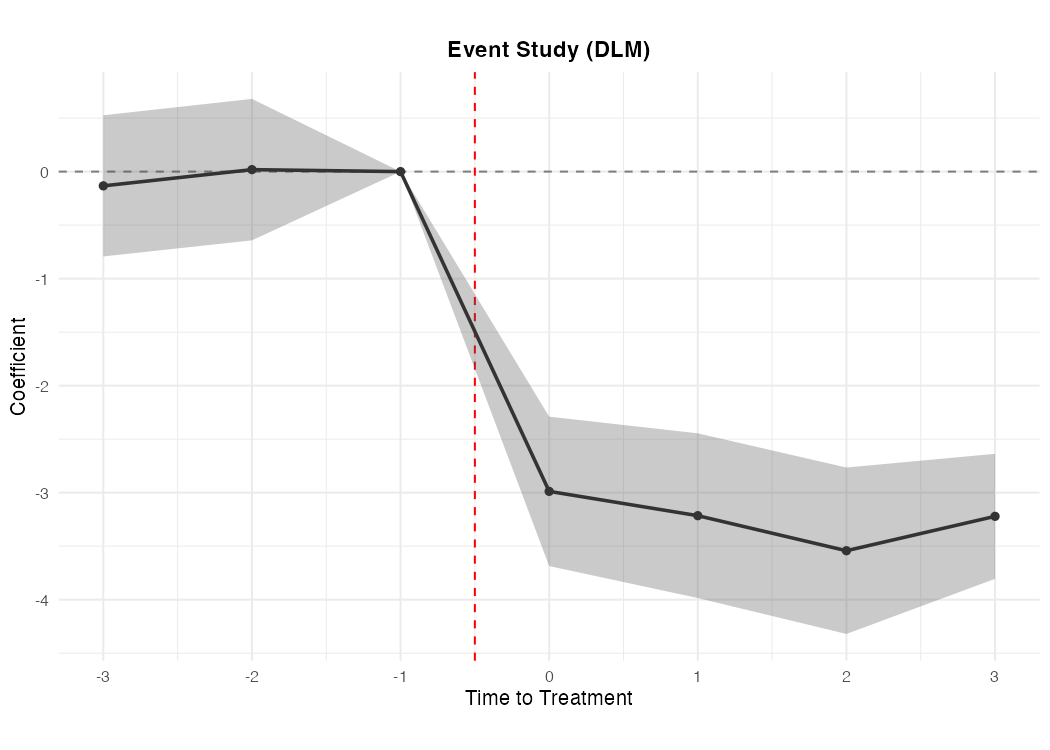
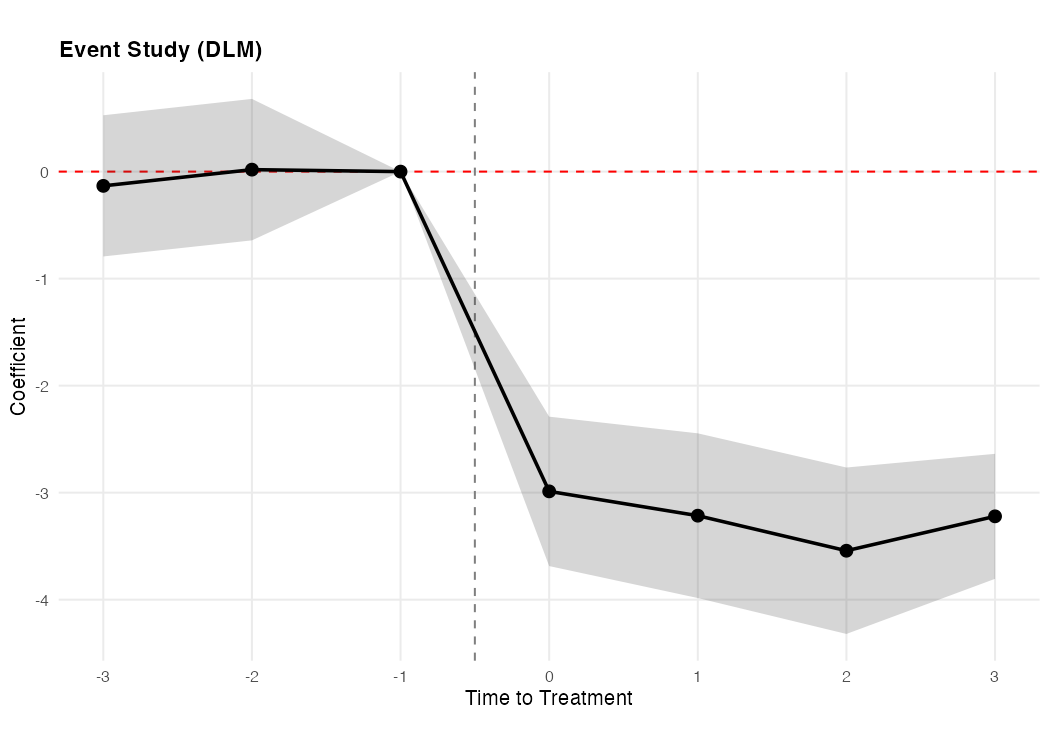
Deployed 8429fe3 with MkDocs version: 1.6.1

diff --git a/getting-started/worked-example/index.html b/getting-started/worked-example/index.html
@@ -1267,18 +1267,19 @@
 <div class="tabbed-content">
 <div class="tabbed-block">
 <div class="highlight"><pre><span></span><code><a id="__codelineno-13-1" name="__codelineno-13-1" href="#__codelineno-13-1"></a><span class="nf">ggplot</span><span class="p">(</span><span class="n">es_df</span><span class="p">,</span><span class="w"> </span><span class="nf">aes</span><span class="p">(</span><span class="n">x</span><span class="w"> </span><span class="o">=</span><span class="w"> </span><span class="n">time_to_event</span><span class="p">,</span><span class="w"> </span><span class="n">y</span><span class="w"> </span><span class="o">=</span><span class="w"> </span><span class="n">coef</span><span class="p">))</span><span class="w"> </span><span class="o">+</span>
-<a id="__codelineno-13-2" name="__codelineno-13-2" href="#__codelineno-13-2"></a><span class="w">  </span><span class="nf">geom_hline</span><span class="p">(</span><span class="n">yintercept</span><span class="w"> </span><span class="o">=</span><span class="w"> </span><span class="m">0</span><span class="p">,</span><span class="w"> </span><span class="n">lty</span><span class="w"> </span><span class="o">=</span><span class="w"> </span><span class="m">2</span><span class="p">,</span><span class="w"> </span><span class="n">color</span><span class="w"> </span><span class="o">=</span><span class="w"> </span><span class="s">&quot;gray50&quot;</span><span class="p">)</span><span class="w"> </span><span class="o">+</span>
-<a id="__codelineno-13-3" name="__codelineno-13-3" href="#__codelineno-13-3"></a><span class="w">  </span><span class="nf">geom_vline</span><span class="p">(</span><span class="n">xintercept</span><span class="w"> </span><span class="o">=</span><span class="w"> </span><span class="m">-0.5</span><span class="p">,</span><span class="w"> </span><span class="n">lty</span><span class="w"> </span><span class="o">=</span><span class="w"> </span><span class="m">2</span><span class="p">,</span><span class="w"> </span><span class="n">color</span><span class="w"> </span><span class="o">=</span><span class="w"> </span><span class="s">&quot;red&quot;</span><span class="p">)</span><span class="w"> </span><span class="o">+</span>
+<a id="__codelineno-13-2" name="__codelineno-13-2" href="#__codelineno-13-2"></a><span class="w">  </span><span class="nf">geom_hline</span><span class="p">(</span><span class="n">yintercept</span><span class="w"> </span><span class="o">=</span><span class="w"> </span><span class="m">0</span><span class="p">,</span><span class="w"> </span><span class="n">lty</span><span class="w"> </span><span class="o">=</span><span class="w"> </span><span class="m">2</span><span class="p">,</span><span class="w"> </span><span class="n">color</span><span class="w"> </span><span class="o">=</span><span class="w"> </span><span class="s">&quot;red&quot;</span><span class="p">)</span><span class="w"> </span><span class="o">+</span>
+<a id="__codelineno-13-3" name="__codelineno-13-3" href="#__codelineno-13-3"></a><span class="w">  </span><span class="nf">geom_vline</span><span class="p">(</span><span class="n">xintercept</span><span class="w"> </span><span class="o">=</span><span class="w"> </span><span class="m">-0.5</span><span class="p">,</span><span class="w"> </span><span class="n">lty</span><span class="w"> </span><span class="o">=</span><span class="w"> </span><span class="m">2</span><span class="p">,</span><span class="w"> </span><span class="n">color</span><span class="w"> </span><span class="o">=</span><span class="w"> </span><span class="s">&quot;gray50&quot;</span><span class="p">)</span><span class="w"> </span><span class="o">+</span>
 <a id="__codelineno-13-4" name="__codelineno-13-4" href="#__codelineno-13-4"></a><span class="w">  </span><span class="nf">geom_ribbon</span><span class="p">(</span><span class="nf">aes</span><span class="p">(</span><span class="n">ymin</span><span class="w"> </span><span class="o">=</span><span class="w"> </span><span class="n">coef</span><span class="w"> </span><span class="o">-</span><span class="w"> </span><span class="m">1.96</span><span class="w"> </span><span class="o">*</span><span class="w"> </span><span class="n">se</span><span class="p">,</span><span class="w"> </span><span class="n">ymax</span><span class="w"> </span><span class="o">=</span><span class="w"> </span><span class="n">coef</span><span class="w"> </span><span class="o">+</span><span class="w"> </span><span class="m">1.96</span><span class="w"> </span><span class="o">*</span><span class="w"> </span><span class="n">se</span><span class="p">),</span>
-<a id="__codelineno-13-5" name="__codelineno-13-5" href="#__codelineno-13-5"></a><span class="w">              </span><span class="n">alpha</span><span class="w"> </span><span class="o">=</span><span class="w"> </span><span class="m">0.3</span><span class="p">,</span><span class="w"> </span><span class="n">fill</span><span class="w"> </span><span class="o">=</span><span class="w"> </span><span class="s">&quot;gray30&quot;</span><span class="p">)</span><span class="w"> </span><span class="o">+</span>
-<a id="__codelineno-13-6" name="__codelineno-13-6" href="#__codelineno-13-6"></a><span class="w">  </span><span class="nf">geom_line</span><span class="p">(</span><span class="n">color</span><span class="w"> </span><span class="o">=</span><span class="w"> </span><span class="s">&quot;gray20&quot;</span><span class="p">,</span><span class="w"> </span><span class="n">linewidth</span><span class="w"> </span><span class="o">=</span><span class="w"> </span><span class="m">0.8</span><span class="p">)</span><span class="w"> </span><span class="o">+</span>
-<a id="__codelineno-13-7" name="__codelineno-13-7" href="#__codelineno-13-7"></a><span class="w">  </span><span class="nf">geom_point</span><span class="p">(</span><span class="n">color</span><span class="w"> </span><span class="o">=</span><span class="w"> </span><span class="s">&quot;gray20&quot;</span><span class="p">,</span><span class="w"> </span><span class="n">size</span><span class="w"> </span><span class="o">=</span><span class="w"> </span><span class="m">1.5</span><span class="p">)</span><span class="w"> </span><span class="o">+</span>
+<a id="__codelineno-13-5" name="__codelineno-13-5" href="#__codelineno-13-5"></a><span class="w">              </span><span class="n">alpha</span><span class="w"> </span><span class="o">=</span><span class="w"> </span><span class="m">0.2</span><span class="p">,</span><span class="w"> </span><span class="n">fill</span><span class="w"> </span><span class="o">=</span><span class="w"> </span><span class="s">&quot;grey20&quot;</span><span class="p">)</span><span class="w"> </span><span class="o">+</span>
+<a id="__codelineno-13-6" name="__codelineno-13-6" href="#__codelineno-13-6"></a><span class="w">  </span><span class="nf">geom_line</span><span class="p">(</span><span class="n">color</span><span class="w"> </span><span class="o">=</span><span class="w"> </span><span class="s">&quot;black&quot;</span><span class="p">,</span><span class="w"> </span><span class="n">linewidth</span><span class="w"> </span><span class="o">=</span><span class="w"> </span><span class="m">0.8</span><span class="p">)</span><span class="w"> </span><span class="o">+</span>
+<a id="__codelineno-13-7" name="__codelineno-13-7" href="#__codelineno-13-7"></a><span class="w">  </span><span class="nf">geom_point</span><span class="p">(</span><span class="n">color</span><span class="w"> </span><span class="o">=</span><span class="w"> </span><span class="s">&quot;black&quot;</span><span class="p">,</span><span class="w"> </span><span class="n">size</span><span class="w"> </span><span class="o">=</span><span class="w"> </span><span class="m">2.5</span><span class="p">)</span><span class="w"> </span><span class="o">+</span>
 <a id="__codelineno-13-8" name="__codelineno-13-8" href="#__codelineno-13-8"></a><span class="w">  </span><span class="nf">scale_x_continuous</span><span class="p">(</span><span class="n">breaks</span><span class="w"> </span><span class="o">=</span><span class="w"> </span><span class="m">-3</span><span class="o">:</span><span class="m">3</span><span class="p">)</span><span class="w"> </span><span class="o">+</span>
 <a id="__codelineno-13-9" name="__codelineno-13-9" href="#__codelineno-13-9"></a><span class="w">  </span><span class="nf">labs</span><span class="p">(</span><span class="n">title</span><span class="w"> </span><span class="o">=</span><span class="w"> </span><span class="s">&quot;Canonical Event Study&quot;</span><span class="p">,</span>
 <a id="__codelineno-13-10" name="__codelineno-13-10" href="#__codelineno-13-10"></a><span class="w">       </span><span class="n">x</span><span class="w"> </span><span class="o">=</span><span class="w"> </span><span class="s">&quot;Periods to Treatment&quot;</span><span class="p">,</span><span class="w"> </span><span class="n">y</span><span class="w"> </span><span class="o">=</span><span class="w"> </span><span class="s">&quot;Coefficient&quot;</span><span class="p">)</span><span class="w"> </span><span class="o">+</span>
 <a id="__codelineno-13-11" name="__codelineno-13-11" href="#__codelineno-13-11"></a><span class="w">  </span><span class="nf">theme_minimal</span><span class="p">(</span><span class="n">base_size</span><span class="w"> </span><span class="o">=</span><span class="w"> </span><span class="m">10</span><span class="p">)</span><span class="w"> </span><span class="o">+</span>
 <a id="__codelineno-13-12" name="__codelineno-13-12" href="#__codelineno-13-12"></a><span class="w">  </span><span class="nf">theme</span><span class="p">(</span><span class="n">aspect.ratio</span><span class="w"> </span><span class="o">=</span><span class="w"> </span><span class="m">0.6</span><span class="p">,</span>
-<a id="__codelineno-13-13" name="__codelineno-13-13" href="#__codelineno-13-13"></a><span class="w">        </span><span class="n">plot.title</span><span class="w"> </span><span class="o">=</span><span class="w"> </span><span class="nf">element_text</span><span class="p">(</span><span class="n">size</span><span class="w"> </span><span class="o">=</span><span class="w"> </span><span class="m">11</span><span class="p">,</span><span class="w"> </span><span class="n">face</span><span class="w"> </span><span class="o">=</span><span class="w"> </span><span class="s">&quot;bold&quot;</span><span class="p">,</span><span class="w"> </span><span class="n">hjust</span><span class="w"> </span><span class="o">=</span><span class="w"> </span><span class="m">0.5</span><span class="p">))</span>
+<a id="__codelineno-13-13" name="__codelineno-13-13" href="#__codelineno-13-13"></a><span class="w">        </span><span class="n">plot.title</span><span class="w"> </span><span class="o">=</span><span class="w"> </span><span class="nf">element_text</span><span class="p">(</span><span class="n">size</span><span class="w"> </span><span class="o">=</span><span class="w"> </span><span class="m">11</span><span class="p">,</span><span class="w"> </span><span class="n">face</span><span class="w"> </span><span class="o">=</span><span class="w"> </span><span class="s">&quot;bold&quot;</span><span class="p">,</span><span class="w"> </span><span class="n">hjust</span><span class="w"> </span><span class="o">=</span><span class="w"> </span><span class="m">0</span><span class="p">),</span>
+<a id="__codelineno-13-14" name="__codelineno-13-14" href="#__codelineno-13-14"></a><span class="w">        </span><span class="n">panel.grid.minor</span><span class="w"> </span><span class="o">=</span><span class="w"> </span><span class="nf">element_blank</span><span class="p">())</span>
 </code></pre></div>
 </div>
 <div class="tabbed-block">
@@ -1294,18 +1295,19 @@
 <div class="tabbed-content">
 <div class="tabbed-block">
 <div class="highlight"><pre><span></span><code><a id="__codelineno-15-1" name="__codelineno-15-1" href="#__codelineno-15-1"></a><span class="nf">ggplot</span><span class="p">(</span><span class="n">dlm_df</span><span class="p">,</span><span class="w"> </span><span class="nf">aes</span><span class="p">(</span><span class="n">x</span><span class="w"> </span><span class="o">=</span><span class="w"> </span><span class="n">time_to_event</span><span class="p">,</span><span class="w"> </span><span class="n">y</span><span class="w"> </span><span class="o">=</span><span class="w"> </span><span class="n">coef</span><span class="p">))</span><span class="w"> </span><span class="o">+</span>
-<a id="__codelineno-15-2" name="__codelineno-15-2" href="#__codelineno-15-2"></a><span class="w">  </span><span class="nf">geom_hline</span><span class="p">(</span><span class="n">yintercept</span><span class="w"> </span><span class="o">=</span><span class="w"> </span><span class="m">0</span><span class="p">,</span><span class="w"> </span><span class="n">lty</span><span class="w"> </span><span class="o">=</span><span class="w"> </span><span class="m">2</span><span class="p">,</span><span class="w"> </span><span class="n">color</span><span class="w"> </span><span class="o">=</span><span class="w"> </span><span class="s">&quot;gray50&quot;</span><span class="p">)</span><span class="w"> </span><span class="o">+</span>
-<a id="__codelineno-15-3" name="__codelineno-15-3" href="#__codelineno-15-3"></a><span class="w">  </span><span class="nf">geom_vline</span><span class="p">(</span><span class="n">xintercept</span><span class="w"> </span><span class="o">=</span><span class="w"> </span><span class="m">-0.5</span><span class="p">,</span><span class="w"> </span><span class="n">lty</span><span class="w"> </span><span class="o">=</span><span class="w"> </span><span class="m">2</span><span class="p">,</span><span class="w"> </span><span class="n">color</span><span class="w"> </span><span class="o">=</span><span class="w"> </span><span class="s">&quot;red&quot;</span><span class="p">)</span><span class="w"> </span><span class="o">+</span>
+<a id="__codelineno-15-2" name="__codelineno-15-2" href="#__codelineno-15-2"></a><span class="w">  </span><span class="nf">geom_hline</span><span class="p">(</span><span class="n">yintercept</span><span class="w"> </span><span class="o">=</span><span class="w"> </span><span class="m">0</span><span class="p">,</span><span class="w"> </span><span class="n">lty</span><span class="w"> </span><span class="o">=</span><span class="w"> </span><span class="m">2</span><span class="p">,</span><span class="w"> </span><span class="n">color</span><span class="w"> </span><span class="o">=</span><span class="w"> </span><span class="s">&quot;red&quot;</span><span class="p">)</span><span class="w"> </span><span class="o">+</span>
+<a id="__codelineno-15-3" name="__codelineno-15-3" href="#__codelineno-15-3"></a><span class="w">  </span><span class="nf">geom_vline</span><span class="p">(</span><span class="n">xintercept</span><span class="w"> </span><span class="o">=</span><span class="w"> </span><span class="m">-0.5</span><span class="p">,</span><span class="w"> </span><span class="n">lty</span><span class="w"> </span><span class="o">=</span><span class="w"> </span><span class="m">2</span><span class="p">,</span><span class="w"> </span><span class="n">color</span><span class="w"> </span><span class="o">=</span><span class="w"> </span><span class="s">&quot;gray50&quot;</span><span class="p">)</span><span class="w"> </span><span class="o">+</span>
 <a id="__codelineno-15-4" name="__codelineno-15-4" href="#__codelineno-15-4"></a><span class="w">  </span><span class="nf">geom_ribbon</span><span class="p">(</span><span class="nf">aes</span><span class="p">(</span><span class="n">ymin</span><span class="w"> </span><span class="o">=</span><span class="w"> </span><span class="n">coef</span><span class="w"> </span><span class="o">-</span><span class="w"> </span><span class="m">1.96</span><span class="w"> </span><span class="o">*</span><span class="w"> </span><span class="n">se</span><span class="p">,</span><span class="w"> </span><span class="n">ymax</span><span class="w"> </span><span class="o">=</span><span class="w"> </span><span class="n">coef</span><span class="w"> </span><span class="o">+</span><span class="w"> </span><span class="m">1.96</span><span class="w"> </span><span class="o">*</span><span class="w"> </span><span class="n">se</span><span class="p">),</span>
-<a id="__codelineno-15-5" name="__codelineno-15-5" href="#__codelineno-15-5"></a><span class="w">              </span><span class="n">alpha</span><span class="w"> </span><span class="o">=</span><span class="w"> </span><span class="m">0.3</span><span class="p">,</span><span class="w"> </span><span class="n">fill</span><span class="w"> </span><span class="o">=</span><span class="w"> </span><span class="s">&quot;gray30&quot;</span><span class="p">)</span><span class="w"> </span><span class="o">+</span>
-<a id="__codelineno-15-6" name="__codelineno-15-6" href="#__codelineno-15-6"></a><span class="w">  </span><span class="nf">geom_line</span><span class="p">(</span><span class="n">color</span><span class="w"> </span><span class="o">=</span><span class="w"> </span><span class="s">&quot;gray20&quot;</span><span class="p">,</span><span class="w"> </span><span class="n">linewidth</span><span class="w"> </span><span class="o">=</span><span class="w"> </span><span class="m">0.8</span><span class="p">)</span><span class="w"> </span><span class="o">+</span>
-<a id="__codelineno-15-7" name="__codelineno-15-7" href="#__codelineno-15-7"></a><span class="w">  </span><span class="nf">geom_point</span><span class="p">(</span><span class="n">color</span><span class="w"> </span><span class="o">=</span><span class="w"> </span><span class="s">&quot;gray20&quot;</span><span class="p">,</span><span class="w"> </span><span class="n">size</span><span class="w"> </span><span class="o">=</span><span class="w"> </span><span class="m">1.5</span><span class="p">)</span><span class="w"> </span><span class="o">+</span>
+<a id="__codelineno-15-5" name="__codelineno-15-5" href="#__codelineno-15-5"></a><span class="w">              </span><span class="n">alpha</span><span class="w"> </span><span class="o">=</span><span class="w"> </span><span class="m">0.2</span><span class="p">,</span><span class="w"> </span><span class="n">fill</span><span class="w"> </span><span class="o">=</span><span class="w"> </span><span class="s">&quot;grey20&quot;</span><span class="p">)</span><span class="w"> </span><span class="o">+</span>
+<a id="__codelineno-15-6" name="__codelineno-15-6" href="#__codelineno-15-6"></a><span class="w">  </span><span class="nf">geom_line</span><span class="p">(</span><span class="n">color</span><span class="w"> </span><span class="o">=</span><span class="w"> </span><span class="s">&quot;black&quot;</span><span class="p">,</span><span class="w"> </span><span class="n">linewidth</span><span class="w"> </span><span class="o">=</span><span class="w"> </span><span class="m">0.8</span><span class="p">)</span><span class="w"> </span><span class="o">+</span>
+<a id="__codelineno-15-7" name="__codelineno-15-7" href="#__codelineno-15-7"></a><span class="w">  </span><span class="nf">geom_point</span><span class="p">(</span><span class="n">color</span><span class="w"> </span><span class="o">=</span><span class="w"> </span><span class="s">&quot;black&quot;</span><span class="p">,</span><span class="w"> </span><span class="n">size</span><span class="w"> </span><span class="o">=</span><span class="w"> </span><span class="m">2.5</span><span class="p">)</span><span class="w"> </span><span class="o">+</span>
 <a id="__codelineno-15-8" name="__codelineno-15-8" href="#__codelineno-15-8"></a><span class="w">  </span><span class="nf">scale_x_continuous</span><span class="p">(</span><span class="n">breaks</span><span class="w"> </span><span class="o">=</span><span class="w"> </span><span class="m">-3</span><span class="o">:</span><span class="m">3</span><span class="p">)</span><span class="w"> </span><span class="o">+</span>
 <a id="__codelineno-15-9" name="__codelineno-15-9" href="#__codelineno-15-9"></a><span class="w">  </span><span class="nf">labs</span><span class="p">(</span><span class="n">title</span><span class="w"> </span><span class="o">=</span><span class="w"> </span><span class="s">&quot;Distributed Lag Model&quot;</span><span class="p">,</span>
 <a id="__codelineno-15-10" name="__codelineno-15-10" href="#__codelineno-15-10"></a><span class="w">       </span><span class="n">x</span><span class="w"> </span><span class="o">=</span><span class="w"> </span><span class="s">&quot;Periods to Treatment&quot;</span><span class="p">,</span><span class="w"> </span><span class="n">y</span><span class="w"> </span><span class="o">=</span><span class="w"> </span><span class="s">&quot;Coefficient&quot;</span><span class="p">)</span><span class="w"> </span><span class="o">+</span>
 <a id="__codelineno-15-11" name="__codelineno-15-11" href="#__codelineno-15-11"></a><span class="w">  </span><span class="nf">theme_minimal</span><span class="p">(</span><span class="n">base_size</span><span class="w"> </span><span class="o">=</span><span class="w"> </span><span class="m">10</span><span class="p">)</span><span class="w"> </span><span class="o">+</span>
 <a id="__codelineno-15-12" name="__codelineno-15-12" href="#__codelineno-15-12"></a><span class="w">  </span><span class="nf">theme</span><span class="p">(</span><span class="n">aspect.ratio</span><span class="w"> </span><span class="o">=</span><span class="w"> </span><span class="m">0.6</span><span class="p">,</span>
-<a id="__codelineno-15-13" name="__codelineno-15-13" href="#__codelineno-15-13"></a><span class="w">        </span><span class="n">plot.title</span><span class="w"> </span><span class="o">=</span><span class="w"> </span><span class="nf">element_text</span><span class="p">(</span><span class="n">size</span><span class="w"> </span><span class="o">=</span><span class="w"> </span><span class="m">11</span><span class="p">,</span><span class="w"> </span><span class="n">face</span><span class="w"> </span><span class="o">=</span><span class="w"> </span><span class="s">&quot;bold&quot;</span><span class="p">,</span><span class="w"> </span><span class="n">hjust</span><span class="w"> </span><span class="o">=</span><span class="w"> </span><span class="m">0.5</span><span class="p">))</span>
+<a id="__codelineno-15-13" name="__codelineno-15-13" href="#__codelineno-15-13"></a><span class="w">        </span><span class="n">plot.title</span><span class="w"> </span><span class="o">=</span><span class="w"> </span><span class="nf">element_text</span><span class="p">(</span><span class="n">size</span><span class="w"> </span><span class="o">=</span><span class="w"> </span><span class="m">11</span><span class="p">,</span><span class="w"> </span><span class="n">face</span><span class="w"> </span><span class="o">=</span><span class="w"> </span><span class="s">&quot;bold&quot;</span><span class="p">,</span><span class="w"> </span><span class="n">hjust</span><span class="w"> </span><span class="o">=</span><span class="w"> </span><span class="m">0</span><span class="p">),</span>
+<a id="__codelineno-15-14" name="__codelineno-15-14" href="#__codelineno-15-14"></a><span class="w">        </span><span class="n">panel.grid.minor</span><span class="w"> </span><span class="o">=</span><span class="w"> </span><span class="nf">element_blank</span><span class="p">())</span>
 </code></pre></div>
 </div>
 <div class="tabbed-block">
